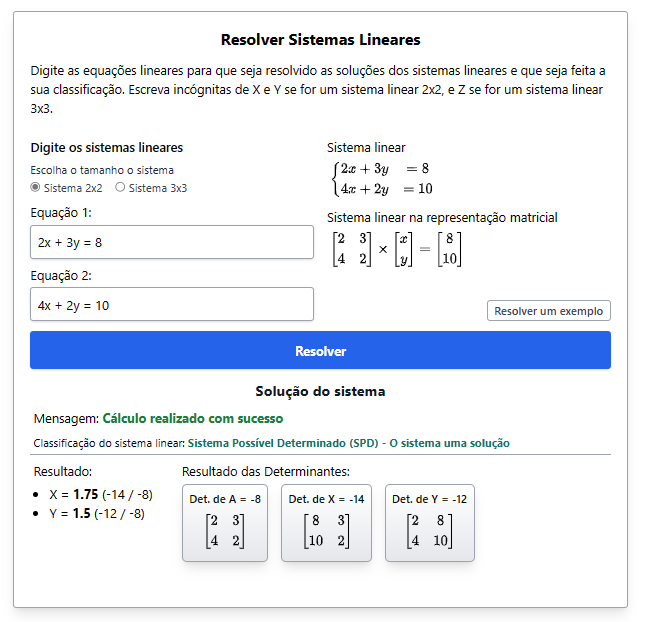
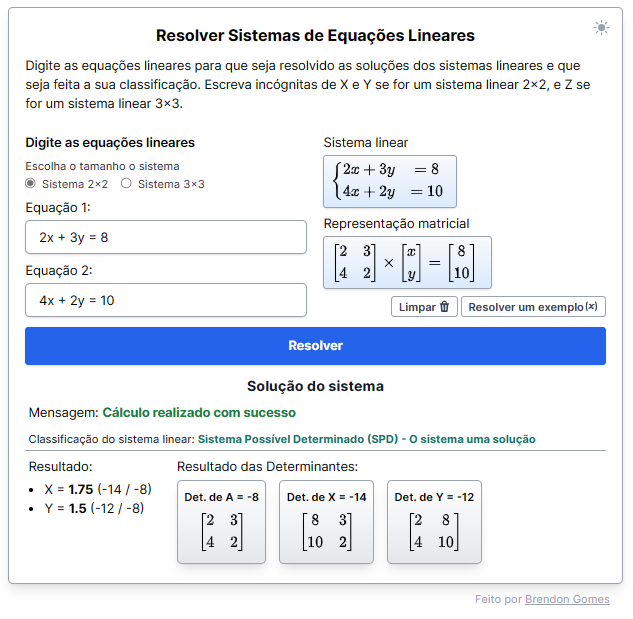
:sparkles: update website to SEO, add semantic tags, update package.json and add license

Changed region(s): [[0.0, 0.0, 0.9905, 0.9822]]

diff --git a/src/index.html b/src/index.html
@@ -13,37 +13,32 @@
       rel="stylesheet"
     />
 
+    <meta
+      name="description"
+      content="Utilize essa calculadora de sistemas lineares para resolver e classificar sistemas de equações lineares."
+    />
+    <meta
+      name="keywords"
+      content="Brendon3578, Sistemas Lineares, Calculadora, Solver, Equações Lineares, Álgebra Linear, Resolução de Sistemas, Classificação de Sistemas, Matrizes, Vetores, Matemática, Ferramenta Online, Matemática Computacional, Solver de Equações, Algoritmo Linear, Aplicativo de Matemática"
+    />
+    <meta name="robots" content="index, follow" />
+    <meta name="language" content="Portuguese" />
+    <meta name="author" content="Brendon Gomes" />
+
     <link rel="stylesheet" href="./styles/output.css" />
-    <title>Resolver Sistemas Lineares e Classificação</title>
+    <title>Calculadora de Sistemas Lineares - Resolver e Classificar</title>
   </head>
   <body
     class="min-h-screen min-w-full flex flex-col items-center justify-center my-10 px-2 dark:bg-slate-900"
   >
-    <div
+    <main
       class="relative max-w-3xl p-5 border border-gray-400 rounded-md shadow-lg flex flex-col gap-3 w-full h-min dark:border-slate-700 dark:bg-slate-800 dark:text-white"
     >
-      <button
-        class="group absolute right-2 top-2 border-transparent hover:border-gray-300 border p-1 rounded shadow-none hover:shadow hover:bg-gray-100 dark:hover:border-slate-600 dark:hover:bg-slate-700 transition-all duration-200"
-        title="Trocar para o modo escuro"
-        id="switch-dark-mode"
-      >
-        <span class="sr-only">Trocar para o modo claro ou modo escuro</span>
-        <!-- prettier-ignore -->
-        <span class="text-slate-400 dark:hidden group-hover:text-blue-500 transition-all duration-200">
-          <span class="sr-only">Trocar para modo escuro</span>
-          <svg xmlns="http://www.w3.org/2000/svg" viewBox="0 0 24 24" fill="currentColor" class="w-6 h-6">
-            <path d="M12 2.25a.75.75 0 0 1 .75.75v2.25a.75.75 0 0 1-1.5 0V3a.75.75 0 0 1 .75-.75ZM7.5 12a4.5 4.5 0 1 1 9 0 4.5 4.5 0 0 1-9 0ZM18.894 6.166a.75.75 0 0 0-1.06-1.06l-1.591 1.59a.75.75 0 1 0 1.06 1.061l1.591-1.59ZM21.75 12a.75.75 0 0 1-.75.75h-2.25a.75.75 0 0 1 0-1.5H21a.75.75 0 0 1 .75.75ZM17.834 18.894a.75.75 0 0 0 1.06-1.06l-1.59-1.591a.75.75 0 1 0-1.061 1.06l1.59 1.591ZM12 18a.75.75 0 0 1 .75.75V21a.75.75 0 0 1-1.5 0v-2.25A.75.75 0 0 1 12 18ZM7.758 17.303a.75.75 0 0 0-1.061-1.06l-1.591 1.59a.75.75 0 0 0 1.06 1.061l1.591-1.59ZM6 12a.75.75 0 0 1-.75.75H3a.75.75 0 0 1 0-1.5h2.25A.75.75 0 0 1 6 12ZM6.697 7.757a.75.75 0 0 0 1.06-1.06l-1.59-1.591a.75.75 0 0 0-1.061 1.06l1.59 1.591Z" />
-          </svg>
-        </span>
-
-        <!-- prettier-ignore -->
-        <span class="text-slate-500/80 hidden dark:block group-hover:text-yellow-400 transition-all duration-200">
-          <svg xmlns="http://www.w3.org/2000/svg" viewBox="0 0 24 24" fill="currentColor" class="w-6 h-6">
-            <path fill-rule="evenodd" d="M9.528 1.718a.75.75 0 0 1 .162.819A8.97 8.97 0 0 0 9 6a9 9 0 0 0 9 9 8.97 8.97 0 0 0 3.463-.69.75.75 0 0 1 .981.98 10.503 10.503 0 0 1-9.694 6.46c-5.799 0-10.5-4.7-10.5-10.5 0-4.368 2.667-8.112 6.46-9.694a.75.75 0 0 1 .818.162Z" clip-rule="evenodd" />
-          </svg>
-        </span>
-      </button>
-      <h1 class="text-center text-xl font-bold">Resolver Sistemas Lineares</h1>
+      <header>
+        <h1 class="text-center text-xl font-bold">
+          Resolver Sistemas de Equações Lineares
+        </h1>
+      </header>
 
       <p class="mb-3">
         Digite as equações lineares para que seja resolvido as soluções dos
@@ -51,7 +46,7 @@
         incógnitas de X e Y se for um sistema linear 2x2, e Z se for um sistema
         linear 3x3.
       </p>
-      <div class="flex gap-5 flex-col sm:flex-row">
+      <section class="flex gap-5 flex-col sm:flex-row">
         <section class="flex flex-col gap-2 w-full">
           <h3 class="font-semibold">Digite as equações lineares</h3>
 
@@ -112,20 +107,24 @@
           </label>
         </section>
         <section class="flex flex-col gap-2 w-full">
-          <div>
-            <h3 class="mb-1">Sistema linear</h3>
+          <figure>
+            <figcaption class="mb-1">
+              <h3>Sistema linear</h3>
+            </figcaption>
             <div
               id="linear-system-illustration"
               class="p-2 pr-4 border border-gray-400 shadow rounded w-min bg-gradient-to-t from-blue-100 to-gray-50 dark:border-slate-500 dark:from-slate-800 dark:to-slate-700 dark:ring-1 dark:ring-inset dark:ring-slate-900/10"
             ></div>
-          </div>
-          <div>
-            <h3 class="mb-1">Sistema linear na representação matricial</h3>
+          </figure>
+          <figure>
+            <figcaption class="mb-1">
+              <h3>Representação matricial</h3>
+            </figcaption>
             <div
               id="matrix-illustration"
               class="p-2 pr-4 border border-gray-400 shadow rounded w-min bg-gradient-to-t from-blue-100 to-gray-50 dark:border-slate-500 dark:from-slate-800 dark:to-slate-700 dark:ring-1 dark:ring-inset dark:ring-slate-900/10"
             ></div>
-          </div>
+          </figure>
 
           <div class="mt-auto ml-auto flex gap-1">
             <button
@@ -152,7 +151,7 @@
             </button>
           </div>
         </section>
-      </div>
+      </section>
 
       <button
         title="Resolver sistema linear"
@@ -193,8 +192,29 @@
           </div>
         </div>
       </div>
-    </div>
-    <div class="p-2 rounded max-w-3xl w-full flex justify-end px-4">
+
+      <button
+        class="group absolute right-2 top-2 border-transparent hover:border-gray-300 border p-1 rounded shadow-none hover:shadow hover:bg-gray-100 dark:hover:border-slate-600 dark:hover:bg-slate-700 transition-all duration-200"
+        title="Trocar para o modo escuro"
+        id="switch-dark-mode"
+      >
+        <span class="sr-only">Trocar para o modo claro ou modo escuro</span>
+        <!-- prettier-ignore -->
+        <span class="text-slate-400 dark:hidden group-hover:text-blue-500 transition-all duration-200">
+          <svg xmlns="http://www.w3.org/2000/svg" viewBox="0 0 24 24" fill="currentColor" class="w-6 h-6">
+            <path d="M12 2.25a.75.75 0 0 1 .75.75v2.25a.75.75 0 0 1-1.5 0V3a.75.75 0 0 1 .75-.75ZM7.5 12a4.5 4.5 0 1 1 9 0 4.5 4.5 0 0 1-9 0ZM18.894 6.166a.75.75 0 0 0-1.06-1.06l-1.591 1.59a.75.75 0 1 0 1.06 1.061l1.591-1.59ZM21.75 12a.75.75 0 0 1-.75.75h-2.25a.75.75 0 0 1 0-1.5H21a.75.75 0 0 1 .75.75ZM17.834 18.894a.75.75 0 0 0 1.06-1.06l-1.59-1.591a.75.75 0 1 0-1.061 1.06l1.59 1.591ZM12 18a.75.75 0 0 1 .75.75V21a.75.75 0 0 1-1.5 0v-2.25A.75.75 0 0 1 12 18ZM7.758 17.303a.75.75 0 0 0-1.061-1.06l-1.591 1.59a.75.75 0 0 0 1.06 1.061l1.591-1.59ZM6 12a.75.75 0 0 1-.75.75H3a.75.75 0 0 1 0-1.5h2.25A.75.75 0 0 1 6 12ZM6.697 7.757a.75.75 0 0 0 1.06-1.06l-1.59-1.591a.75.75 0 0 0-1.061 1.06l1.59 1.591Z" />
+          </svg>
+        </span>
+
+        <!-- prettier-ignore -->
+        <span class="text-slate-500/80 hidden dark:block group-hover:text-yellow-400 transition-all duration-200">
+          <svg xmlns="http://www.w3.org/2000/svg" viewBox="0 0 24 24" fill="currentColor" class="w-6 h-6">
+            <path fill-rule="evenodd" d="M9.528 1.718a.75.75 0 0 1 .162.819A8.97 8.97 0 0 0 9 6a9 9 0 0 0 9 9 8.97 8.97 0 0 0 3.463-.69.75.75 0 0 1 .981.98 10.503 10.503 0 0 1-9.694 6.46c-5.799 0-10.5-4.7-10.5-10.5 0-4.368 2.667-8.112 6.46-9.694a.75.75 0 0 1 .818.162Z" clip-rule="evenodd" />
+          </svg>
+        </span>
+      </button>
+    </main>
+    <footer class="p-2 rounded max-w-3xl w-full flex justify-end px-4">
       <span class="text-sm text-gray-400 hover:text-gray-500">
         Feito por
         <a
@@ -204,7 +224,7 @@
           >Brendon Gomes</a
         >
       </span>
-    </div>
+    </footer>
 
     <script>
       MathJax = {

diff --git a/src/styles/output.css b/src/styles/output.css
@@ -674,11 +674,6 @@ video {
   flex-basis: 75%;
 }
 
-.translate-y-1 {
-  --tw-translate-y: 0.25rem;
-  transform: translate(var(--tw-translate-x), var(--tw-translate-y)) rotate(var(--tw-rotate)) skewX(var(--tw-skew-x)) skewY(var(--tw-skew-y)) scaleX(var(--tw-scale-x)) scaleY(var(--tw-scale-y));
-}
-
 .translate-y-px {
   --tw-translate-y: 1px;
   transform: translate(var(--tw-translate-x), var(--tw-translate-y)) rotate(var(--tw-rotate)) skewX(var(--tw-skew-x)) skewY(var(--tw-skew-y)) scaleX(var(--tw-scale-x)) scaleY(var(--tw-scale-y));
@@ -740,10 +735,6 @@ video {
   gap: 1rem;
 }
 
-.gap-6 {
-  gap: 1.5rem;
-}
-
 .gap-5 {
   gap: 1.25rem;
 }
@@ -752,12 +743,6 @@ video {
   --tw-space-x-reverse: 0;
   margin-right: calc(0.25rem * var(--tw-space-x-reverse));
   margin-left: calc(0.25rem * calc(1 - var(--tw-space-x-reverse)));
-}
-
-.space-x-2 > :not([hidden]) ~ :not([hidden]) {
-  --tw-space-x-reverse: 0;
-  margin-right: calc(0.5rem * var(--tw-space-x-reverse));
-  margin-left: calc(0.5rem * calc(1 - var(--tw-space-x-reverse)));
 }
 
 .whitespace-nowrap {
@@ -847,11 +832,6 @@ video {
 .px-4 {
   padding-left: 1rem;
   padding-right: 1rem;
-}
-
-.px-5 {
-  padding-left: 1.25rem;
-  padding-right: 1.25rem;
 }
 
 .py-0 {
@@ -1148,14 +1128,14 @@ video {
   color: rgb(209 213 219 / var(--tw-text-opacity));
 }
 
-.dark\:text-green-500:where(.dark, .dark *) {
+.dark\:text-green-400:where(.dark, .dark *) {
   --tw-text-opacity: 1;
-  color: rgb(34 197 94 / var(--tw-text-opacity));
+  color: rgb(74 222 128 / var(--tw-text-opacity));
 }
 
-.dark\:text-red-500:where(.dark, .dark *) {
+.dark\:text-red-400:where(.dark, .dark *) {
   --tw-text-opacity: 1;
-  color: rgb(239 68 68 / var(--tw-text-opacity));
+  color: rgb(248 113 113 / var(--tw-text-opacity));
 }
 
 .dark\:text-slate-200:where(.dark, .dark *) {
@@ -1176,16 +1156,6 @@ video {
 .dark\:text-white:where(.dark, .dark *) {
   --tw-text-opacity: 1;
   color: rgb(255 255 255 / var(--tw-text-opacity));
-}
-
-.dark\:text-green-400:where(.dark, .dark *) {
-  --tw-text-opacity: 1;
-  color: rgb(74 222 128 / var(--tw-text-opacity));
-}
-
-.dark\:text-red-400:where(.dark, .dark *) {
-  --tw-text-opacity: 1;
-  color: rgb(248 113 113 / var(--tw-text-opacity));
 }
 
 .dark\:ring-1:where(.dark, .dark *) {

diff --git a/src/scripts/script.js b/src/scripts/script.js
@@ -155,11 +155,15 @@ function solveSystem() {
       const unknown = determinant.unknown.toUpperCase();
       determinantListEl.innerHTML += `
       <li
-        class="flex flex-col gap-2 items-center justify-between rounded-md shadow-lg p-2 pb-4 border border-gray-400 w-full bg-gradient-to-t from-gray-200 to-white max-w-min dark:border-slate-700 dark:from-slate-900 dark:to-slate-800"
+        class="rounded-md shadow-lg p-2 pb-4 border border-gray-400 w-full bg-gradient-to-t from-gray-200 to-white max-w-min dark:border-slate-700 dark:from-slate-900 dark:to-slate-800"
         title="Resultado da determinante de ${unknown} é igual a ${determinant.result}"
       >
-        <span class="text-sm font-semibold whitespace-nowrap">Det. de ${unknown} = ${result}</span>
-        <div>${determinant.matrixHTML}</div>
+        <figure class="flex flex-col gap-2 items-center justify-between ">
+          <figcaption>
+            <span class="text-sm font-semibold whitespace-nowrap">Det. de ${unknown} = ${result}</span>
+          </figcaption>
+          <div>${determinant.matrixHTML}</div>
+        </figure>
       </li>`;
     });
 

diff --git a/README.md b/README.md
@@ -24,6 +24,10 @@ Este projeto é uma simples página, feita com HTML, CSS e principalmente em Jav
 
    A página abrirá em seu navegador, onde você poderá inserir as equações dos sistemas lineares, que pode ser do tipo 2x2 ou 3x3. Em seguida. O programa fornecerá a solução do sistema linear usando o método de Cramer e mostrará também a representação matricial o sistema linear, e classificará o sistema linear.
 
+## Licença
+
+Este projeto é licenciado sob a [Licença MIT](./LICENSE).
+
 ---
 
 <h3 align="center">
